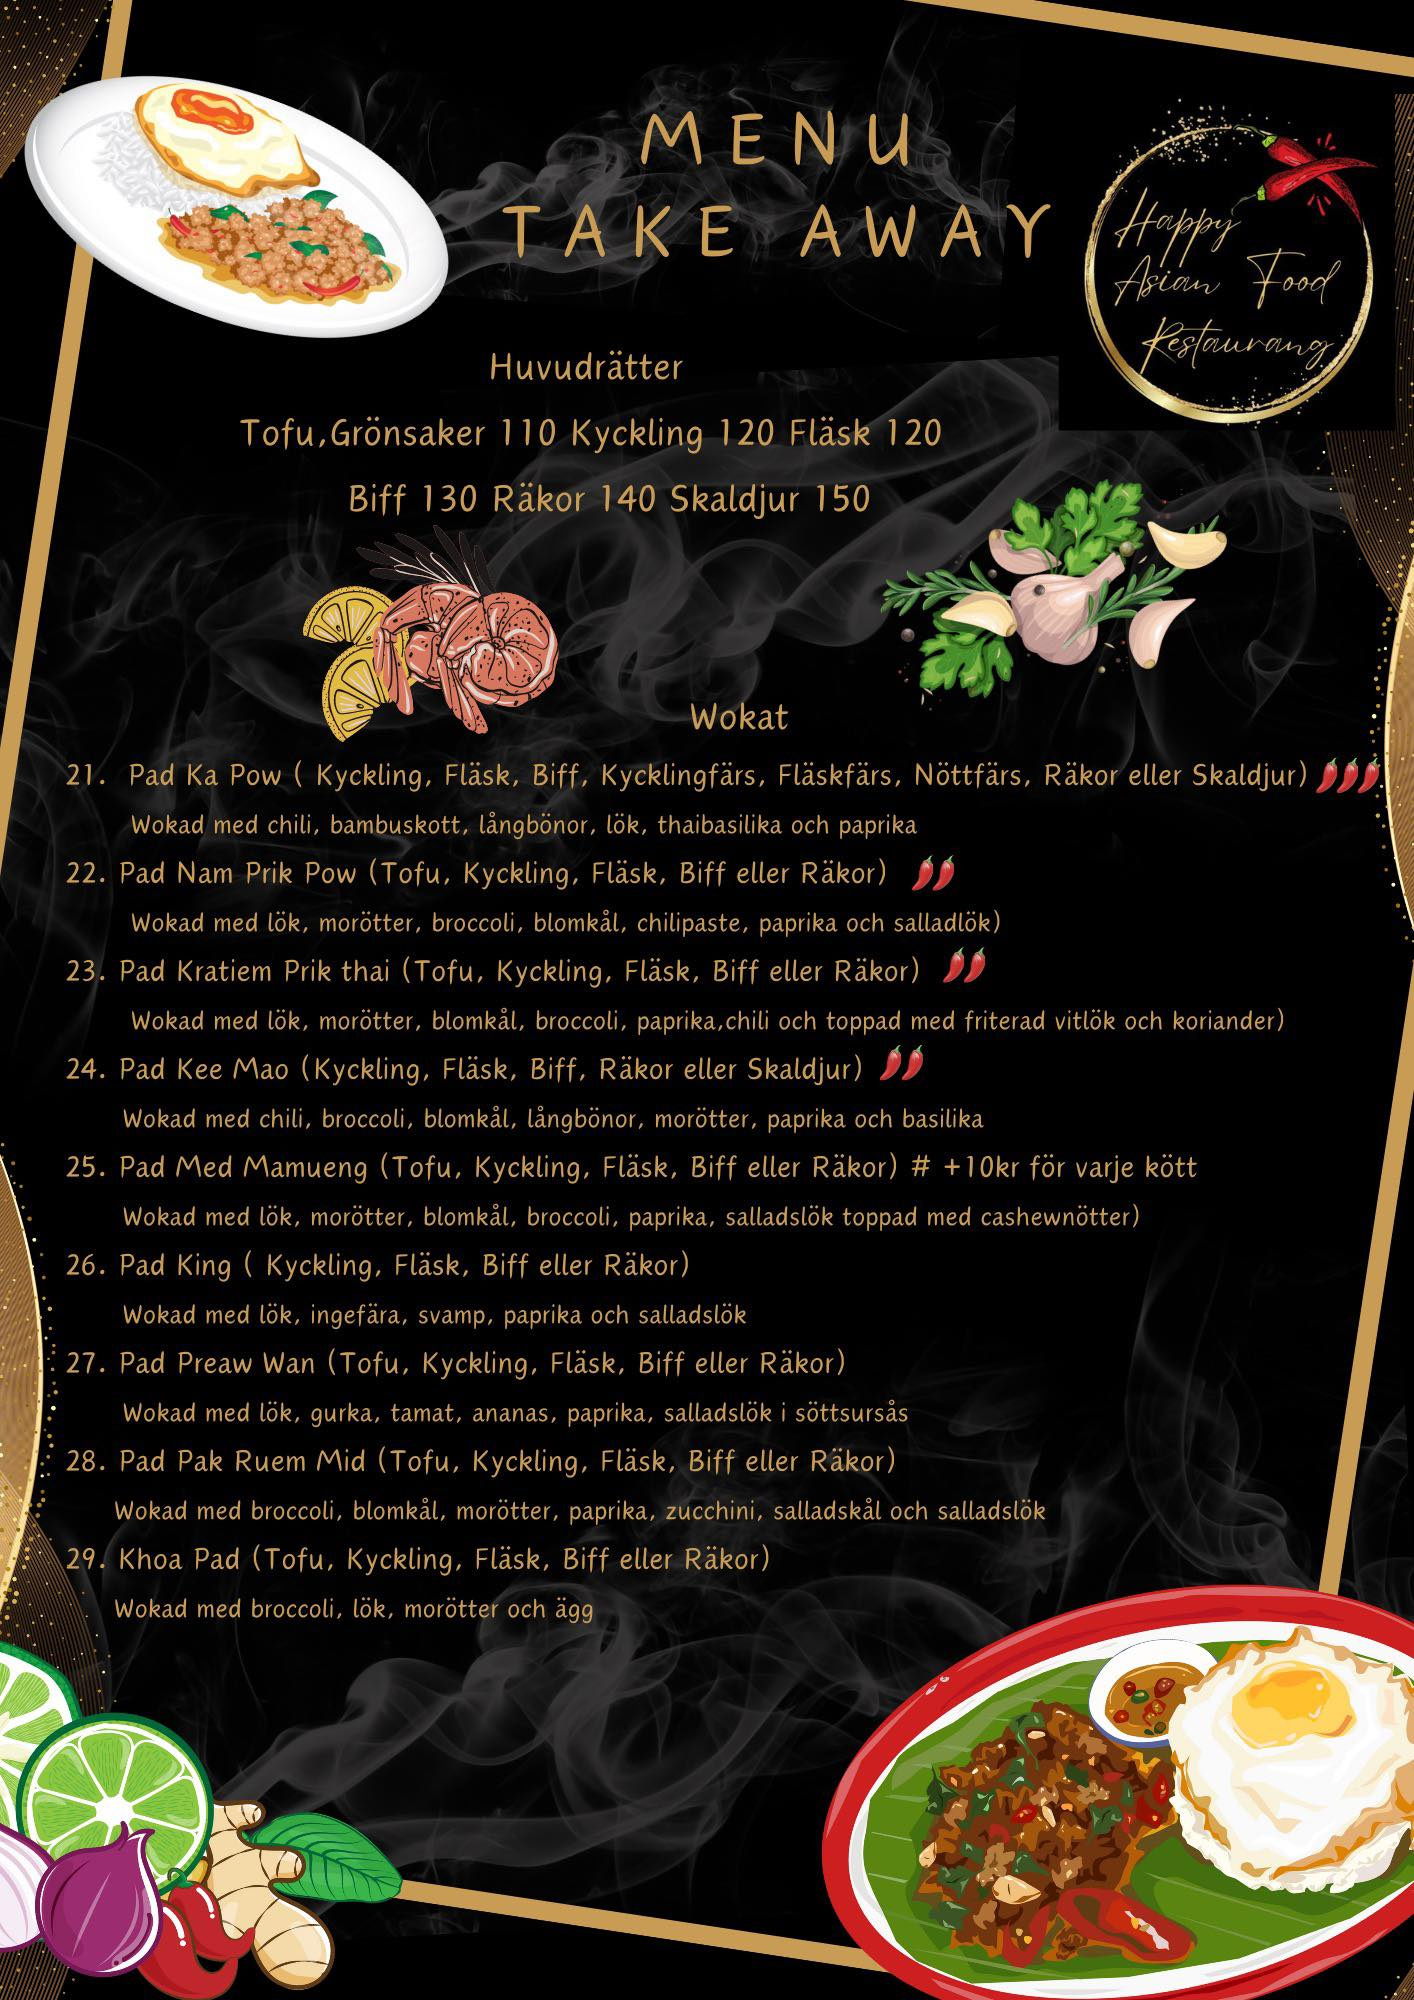
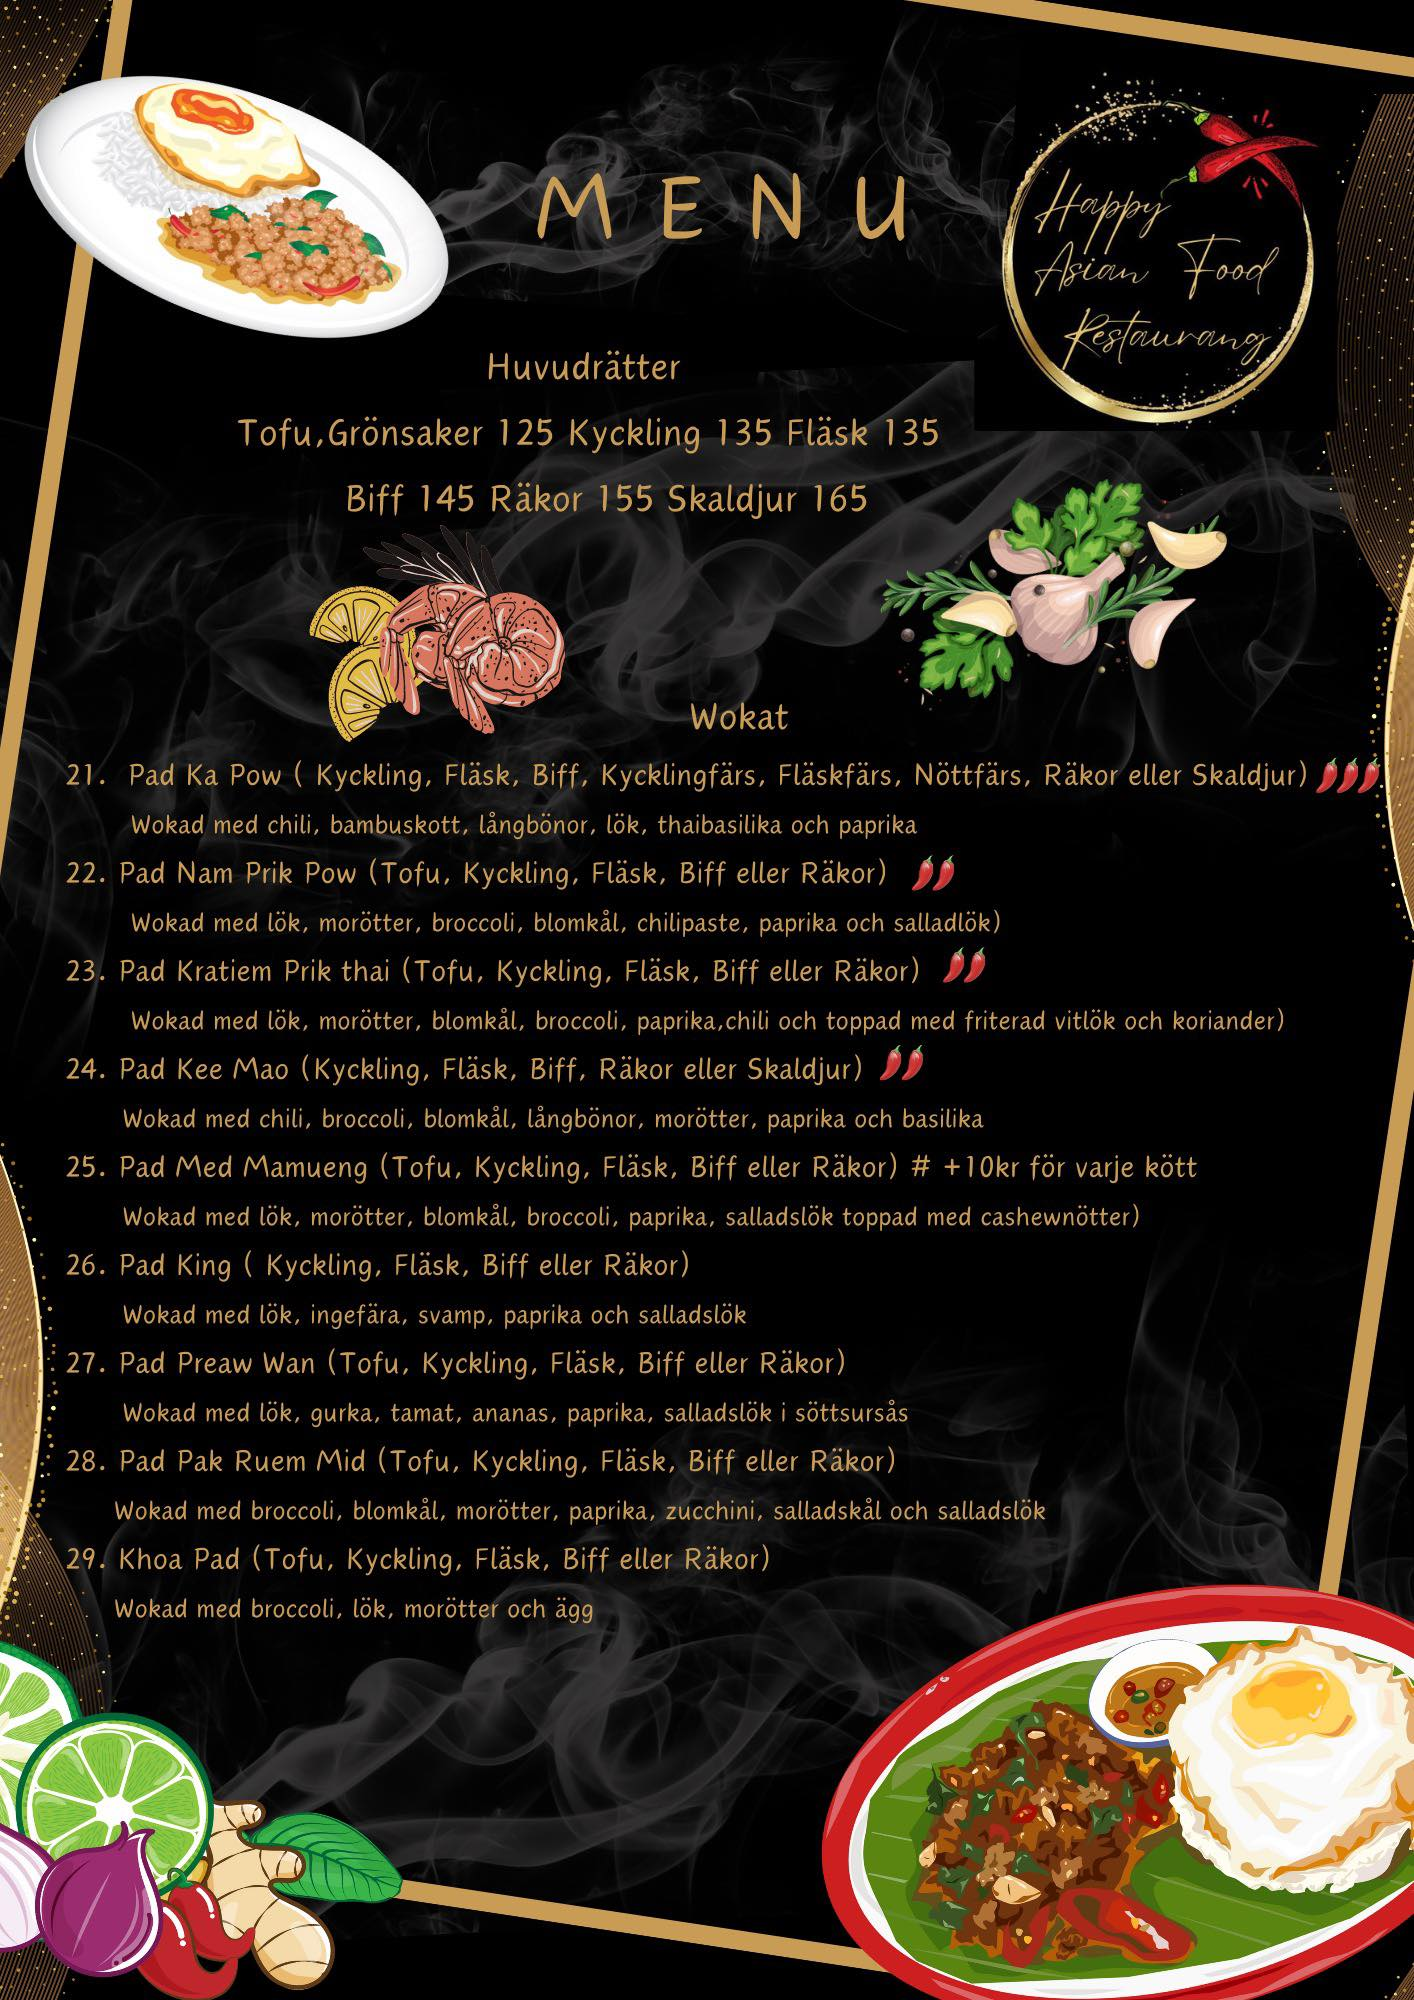
update menu + add settings

Changed region(s): [[0.3423, 0.031, 0.9958, 0.217], [0.1867, 0.155, 0.6223, 0.372], [0.6223, 0.186, 0.6535, 0.217]]

diff --git a/resources/views/pages/admin/settings/index.blade.php b/resources/views/pages/admin/settings/index.blade.php
@@ -1,0 +1,46 @@
+@extends('layouts.admin.main')
+
+@section('styles')
+@endsection
+
+@section('modals')
+@endsection
+
+@section('breadcrumbs')
+    <li aria-current="page">
+        <div class="flex items-center">
+            <svg class="rtl:rotate-180 w-3 h-3 text-gray-400 mx-1" aria-hidden="true" xmlns="http://www.w3.org/2000/svg" fill="none" viewBox="0 0 6 10">
+                <path stroke="currentColor" stroke-linecap="round" stroke-linejoin="round" stroke-width="2" d="m1 9 4-4-4-4"/>
+            </svg>
+            <span class="ms-1 text-sm font-medium text-gray-500 md:ms-2">Settings</span>
+        </div>
+    </li>
+@endsection
+
+@section('content')
+    <div class="m-5">
+        <h1 class="mb-5 font-bold">Inställningar</h2>
+        <form id="onSaveForm" action="{{ route('admin.settings.store') }}" method="POST">
+            @csrf
+
+            <div class="mb-3">
+                <label for="menu_display" class="block mb-2 text-sm font-medium text-gray-900">Välj typ</label>
+                <select id="menu_display" name="menu_display" class="bg-gray-50 border border-gray-300 text-gray-900 text-sm rounded-lg block w-64 p-2.5">
+                    <option @if(isset($settings['menu_display']) && $settings['menu_display'] == 'show_prints') selected @endif value="show_prints">Visa prints</option>
+                    <option @if(isset($settings['menu_display']) && $settings['menu_display'] == 'show_db') selected @endif value="show_db">Hämta från databas</option>
+                </select>
+            </div>
+
+        </form>
+        <br>
+        <button class="onSave block text-white bg-green-600 hover:bg-green-800 focus:ring-4 focus:outline-none focus:ring-green-300 font-medium rounded-lg text-sm px-5 py-2.5 text-center" type="button">
+            Spara
+        </button>
+        <div class="action-message mt-3">
+        </div>
+    </div>
+@endsection
+
+@section('scripts')
+    @include('settings::includes.scripts.form')
+@endsection

diff --git a/app/Http/Controllers/PublicController.php b/app/Http/Controllers/PublicController.php
@@ -2,29 +2,35 @@
 
 use Davidle90\Restaurant\app\Models\Category;
 use Davidle90\Restaurant\app\Models\Meal;
+use Davidle90\Settings\app\Models\Settings;
 
 class PublicController extends Controller
 {
     public function index()
     {
-        $meals = Meal::where('is_active', 1)->get();
+        $menu_display_settings = Settings::where('key', 'menu_display')->first();
         $menus = [];
 
-        foreach($meals as $meal){
+        if(isset($menu_display_settings) && !empty($menu_display_settings) && $menu_display_settings == 'show_db'){
 
-            $sub_category = $meal->sub_category ?? '';
+            $meals = Meal::where('is_active', 1)->get();
 
-            $menus[$meal->category->sort_order.'_'.$meal->category->label][$sub_category][] = [
-                'title' =>  $meal->title ?? 'Untitled',
-                'description' => $meal->description ?? '',
-                'price' => number_format($meal->price ?? 0, 0, '.', ' '),
-                'extras' => [
-                    'spice' => $meal->extras['spice'] ?? 0
-                ]
-            ];
+            foreach($meals as $meal){
+
+                $sub_category = $meal->sub_category ?? '';
+
+                $menus[$meal->category->sort_order.'_'.$meal->category->label][$sub_category][] = [
+                    'title' =>  $meal->title ?? 'Untitled',
+                    'description' => $meal->description ?? '',
+                    'price' => number_format($meal->price ?? 0, 0, '.', ' '),
+                    'extras' => [
+                        'spice' => $meal->extras['spice'] ?? 0
+                    ]
+                ];
+            }
+
+            ksort($menus);
         }
-
-        ksort($menus);
 
         return view('pages.public.index', [
             'menus' => $menus

diff --git a/resources/views/pages/public/includes/menu_from_images.blade.php b/resources/views/pages/public/includes/menu_from_images.blade.php
@@ -1,7 +1,12 @@
-<div>
+<div class="mb-5">
     <img class="mb-2 border-brand" src="{{ asset('images/menu/haf_menu_1.jpg') }}" alt="menu_1">
     <img class="mb-2 border-brand" src="{{ asset('images/menu/haf_menu_2.jpg') }}" alt="menu_2">
     <img class="mb-2 border-brand" src="{{ asset('images/menu/haf_menu_3.jpg') }}" alt="menu_3">
-    <img class="mb-2 border-brand" src="{{ asset('images/menu/haf_menu_4.jpg') }}" alt="menu_4">
-    <img class="mb-2 border-brand" src="{{ asset('images/menu/haf_menu_5.jpg') }}" alt="menu_5">
+</div>
+
+<div id="take-away-menu" class="mb-5">
+    <img class="mb-2 border-brand" src="{{ asset('images/menu/haf_ta_menu_1.jpg') }}" alt="ta_menu_1">
+    <img class="mb-2 border-brand" src="{{ asset('images/menu/haf_ta_menu_2.jpg') }}" alt="ta_menu_2">
+    <img class="mb-2 border-brand" src="{{ asset('images/menu/haf_ta_menu_3.jpg') }}" alt="ta_menu_3">
+    <img class="mb-2 border-brand" src="{{ asset('images/menu/haf_ta_menu_4.jpg') }}" alt="ta_menu_4">
 </div>
